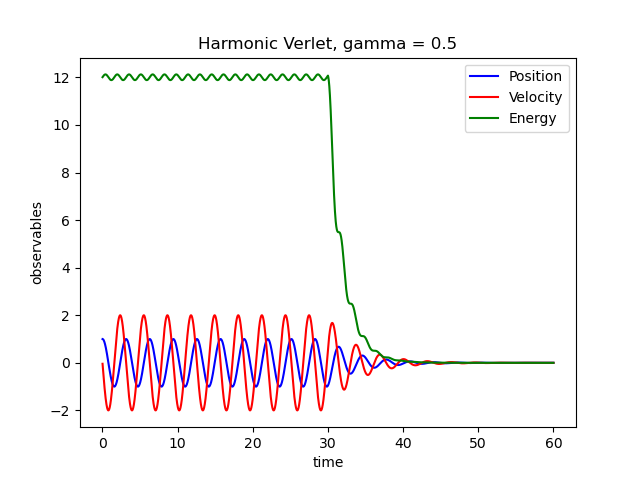
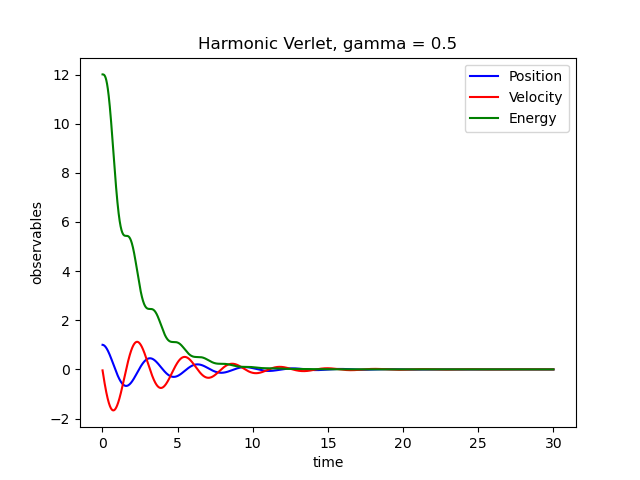
P1.3 Verlet

diff --git a/pendulum.py b/pendulum.py
@@ -36,7 +36,7 @@ class Oscillator:
 
     """ Class for a general, simple oscillator """
 
-    def __init__(self, m=1, c=4, t0=0, theta0=1, dtheta0=0, gamma=1.8):
+    def __init__(self, m=1, c=4, t0=0, theta0=1, dtheta0=0, gamma=3):
         self.m = m              # mass of the pendulum bob
         self.c = c              # c = g/L
         self.L = G / c          # string length
@@ -305,19 +305,17 @@ def exercise_13():
     sim13 = Simulation()
 
     sim13.reset
-    sim13.run(simsystem=Harmonic(), integrator=EulerCromerIntegrator())
-    sim13.plot_observables(title = "Harmonic EulerCromer, gamma = 0.5")
-
-    sim13.reset
     sim13.run(simsystem=Harmonic(), integrator=VerletIntegrator())
-    sim13.plot_observables(title = "Harmonic Verlet, gamma = 0.5")
+    sim13.plot_observables(title = "Harmonic Verlet, gamma = 3")
 
-    sim13.reset
-    sim13.run(simsystem=Harmonic(), integrator=RK4Integrator())
-    sim13.plot_observables(title = "Harmonic RK4, gamma = 0.5")
-
-#def exercise_14():
+def exercise_14():
     #TODO
+    sim14 = Simulation()
+
+    sim14.reset
+    sim14.run(simsystem=Pendulum(), integrator=VerletIntegrator())
+    sim14.plot_observables(title = "Pendulum Verlet, gamma = 1")
+
 
 
 
